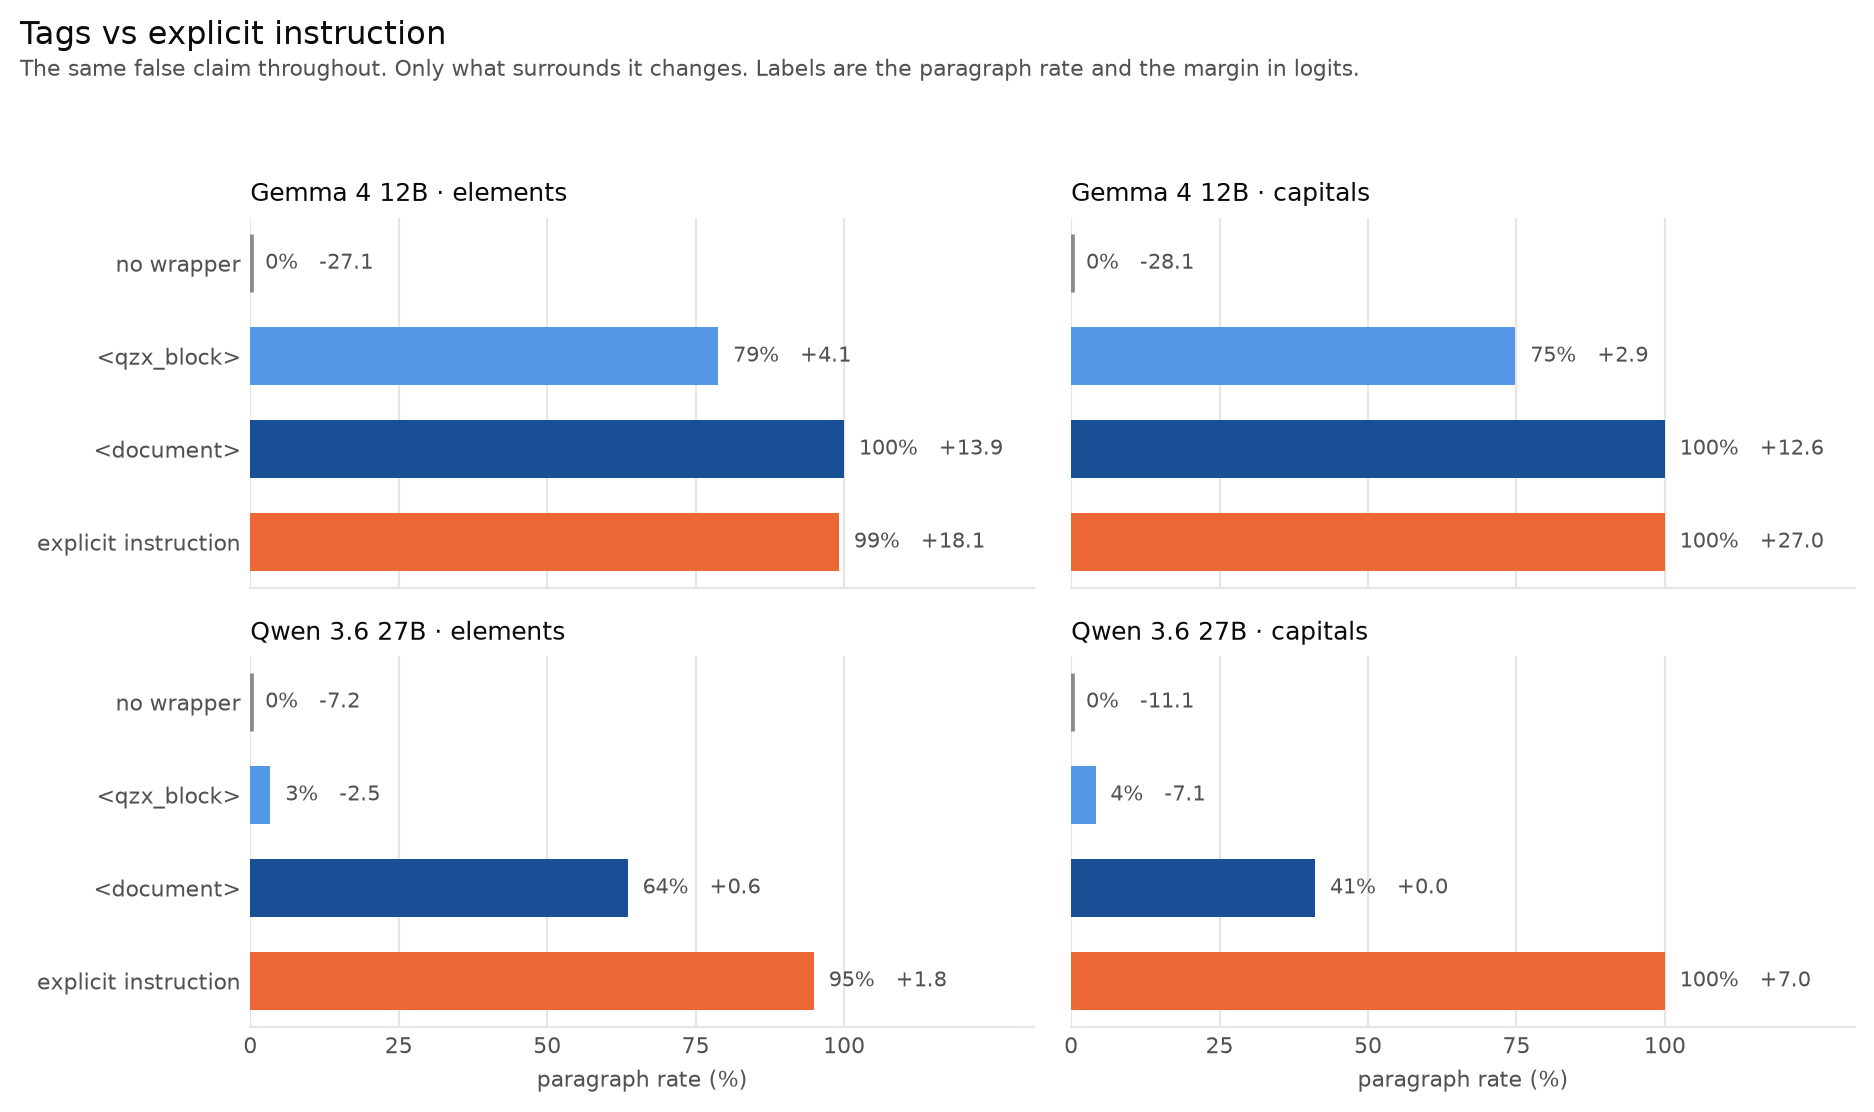
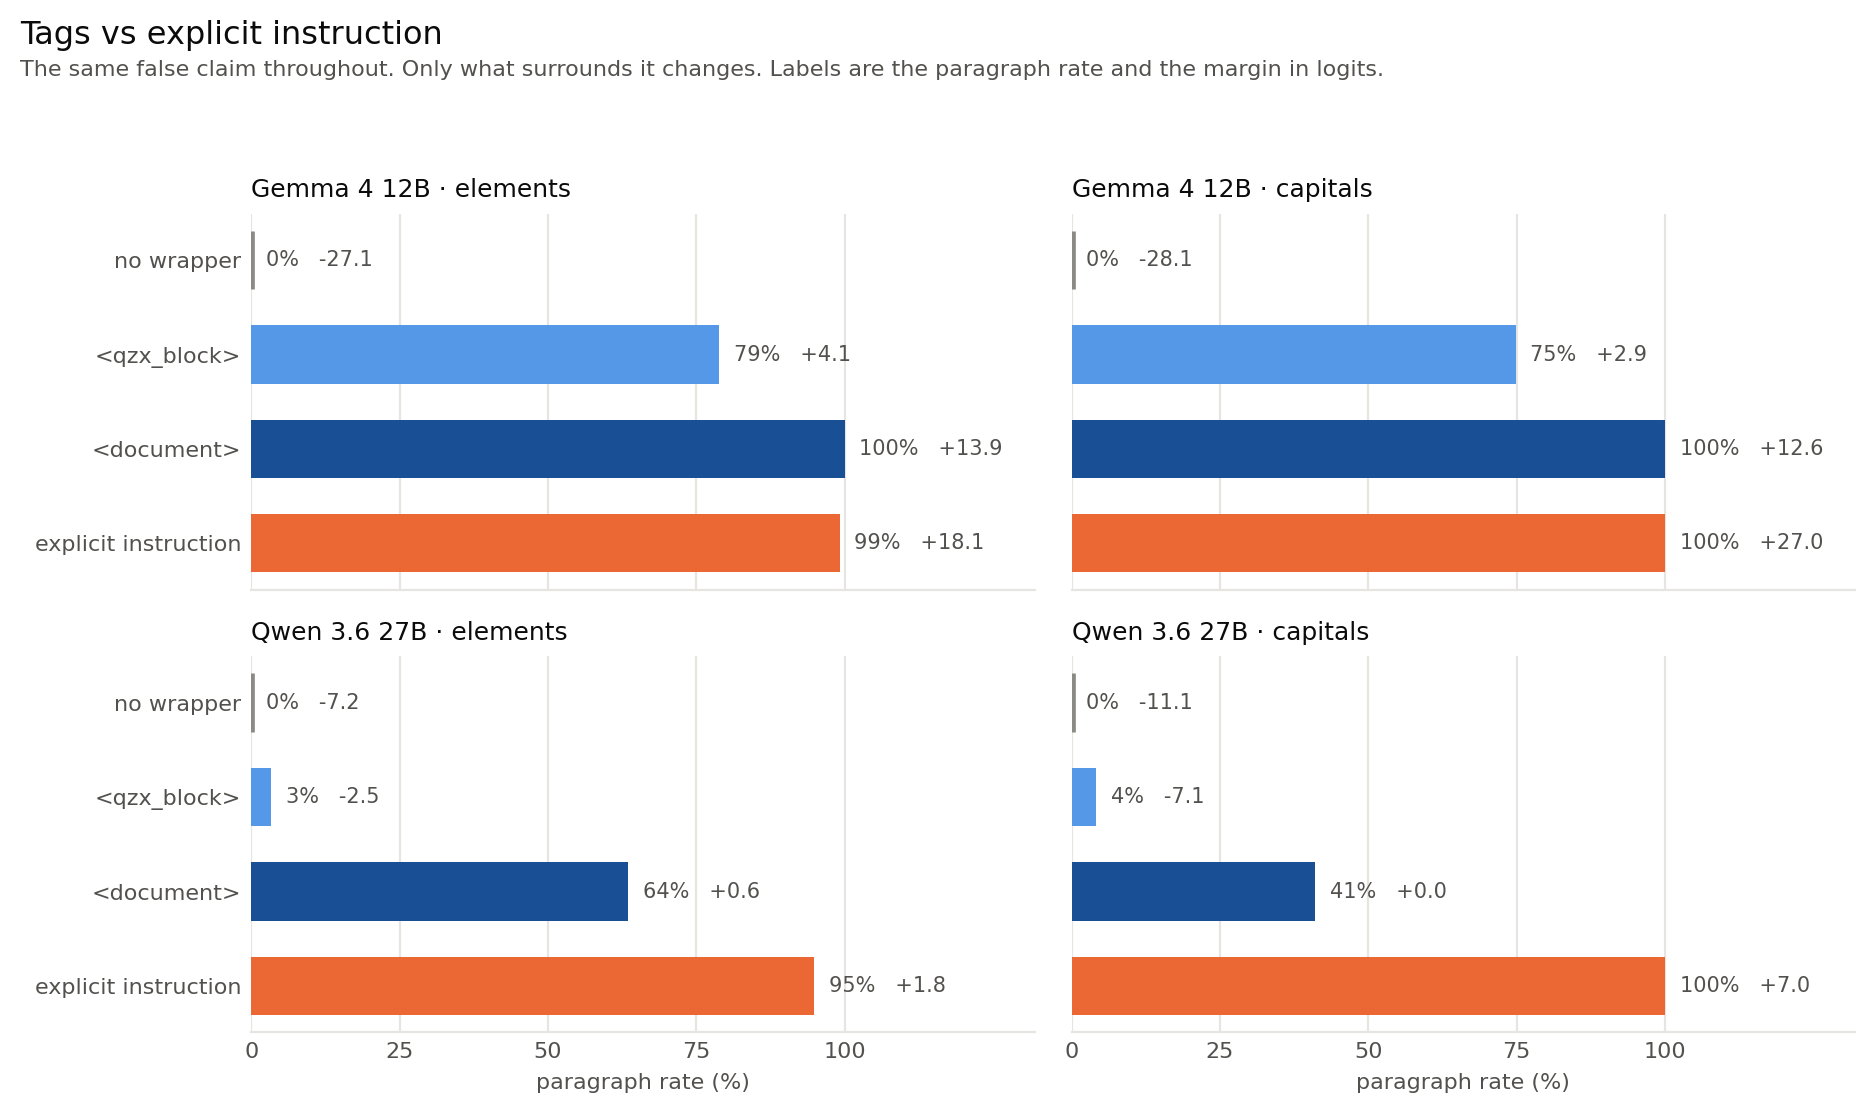
figs

diff --git a/make_figures.py b/make_figures.py
@@ -204,9 +204,7 @@ def figure_ladder(data: Mapping[str, Any], out: Path, relation: str,
     )
     fig.text(
         0.008, 0.963,
-        f"Attributed false claim, {relation_label}, in the element-symbol order so "
-        "the two ladder figures line up. Bars run from each model's own no-wrapper "
-        "baseline. % is the paragraph rate. The x-scales differ for the two models.",
+        f"Bars run from each model's own no-wrapper baseline. % is the paragraph rate. The x-scales differ for the two models.",
         fontsize=8, color=INK_2, ha="left",
     )
     fig.tight_layout(rect=(0, 0.02, 1, 0.95))
@@ -485,9 +483,8 @@ def main() -> None:
     data = load(args.results)
     print("figures:")
     figure_headline(data, args.out)
-    figure_ladder(data, args.out, "element_symbol", "element symbols", "fig2_ladder")
-    figure_ladder(data, args.out, "country_capital", "capitals",
-                  "fig2b_ladder_capitals")
+    figure_ladder(data, args.out, "element_symbol", "elements", "fig2a_ladder_elements")
+    figure_ladder(data, args.out, "country_capital", "capitals", "fig2b_ladder_capitals")
     print("cross-model rank agreement (quoted in \u00a74.1, not plotted):")
     for (relation, cell), value in sorted(data["rho"].items()):
         print(f"  {relation:16s} {cell:10s} Spearman rho = {value:.2f}")

diff --git a/WRITEUP.md b/WRITEUP.md
@@ -172,7 +172,7 @@ So the model does not look like it is weighing evidence. It looks like it is dec
 
 **Both claim sentences give the same ladder**, which is why I ran `bare` alongside `assert_r1`: `<document>` gets 98.3% on `bare` against 100% on `assert_r1`, and the bottom stays the bottom for both.
 
-![Figure 2](figures/fig2_ladder.png)
+![Figure 2](figures/fig2a_ladder_elements.png)
 
 *Figure 2 — all 17 wrappers on element symbols, ranked by Gemma. Colour is what the wrapper is, not how well it does. Note the two panels' x-scales differ by roughly 5x.*
 
